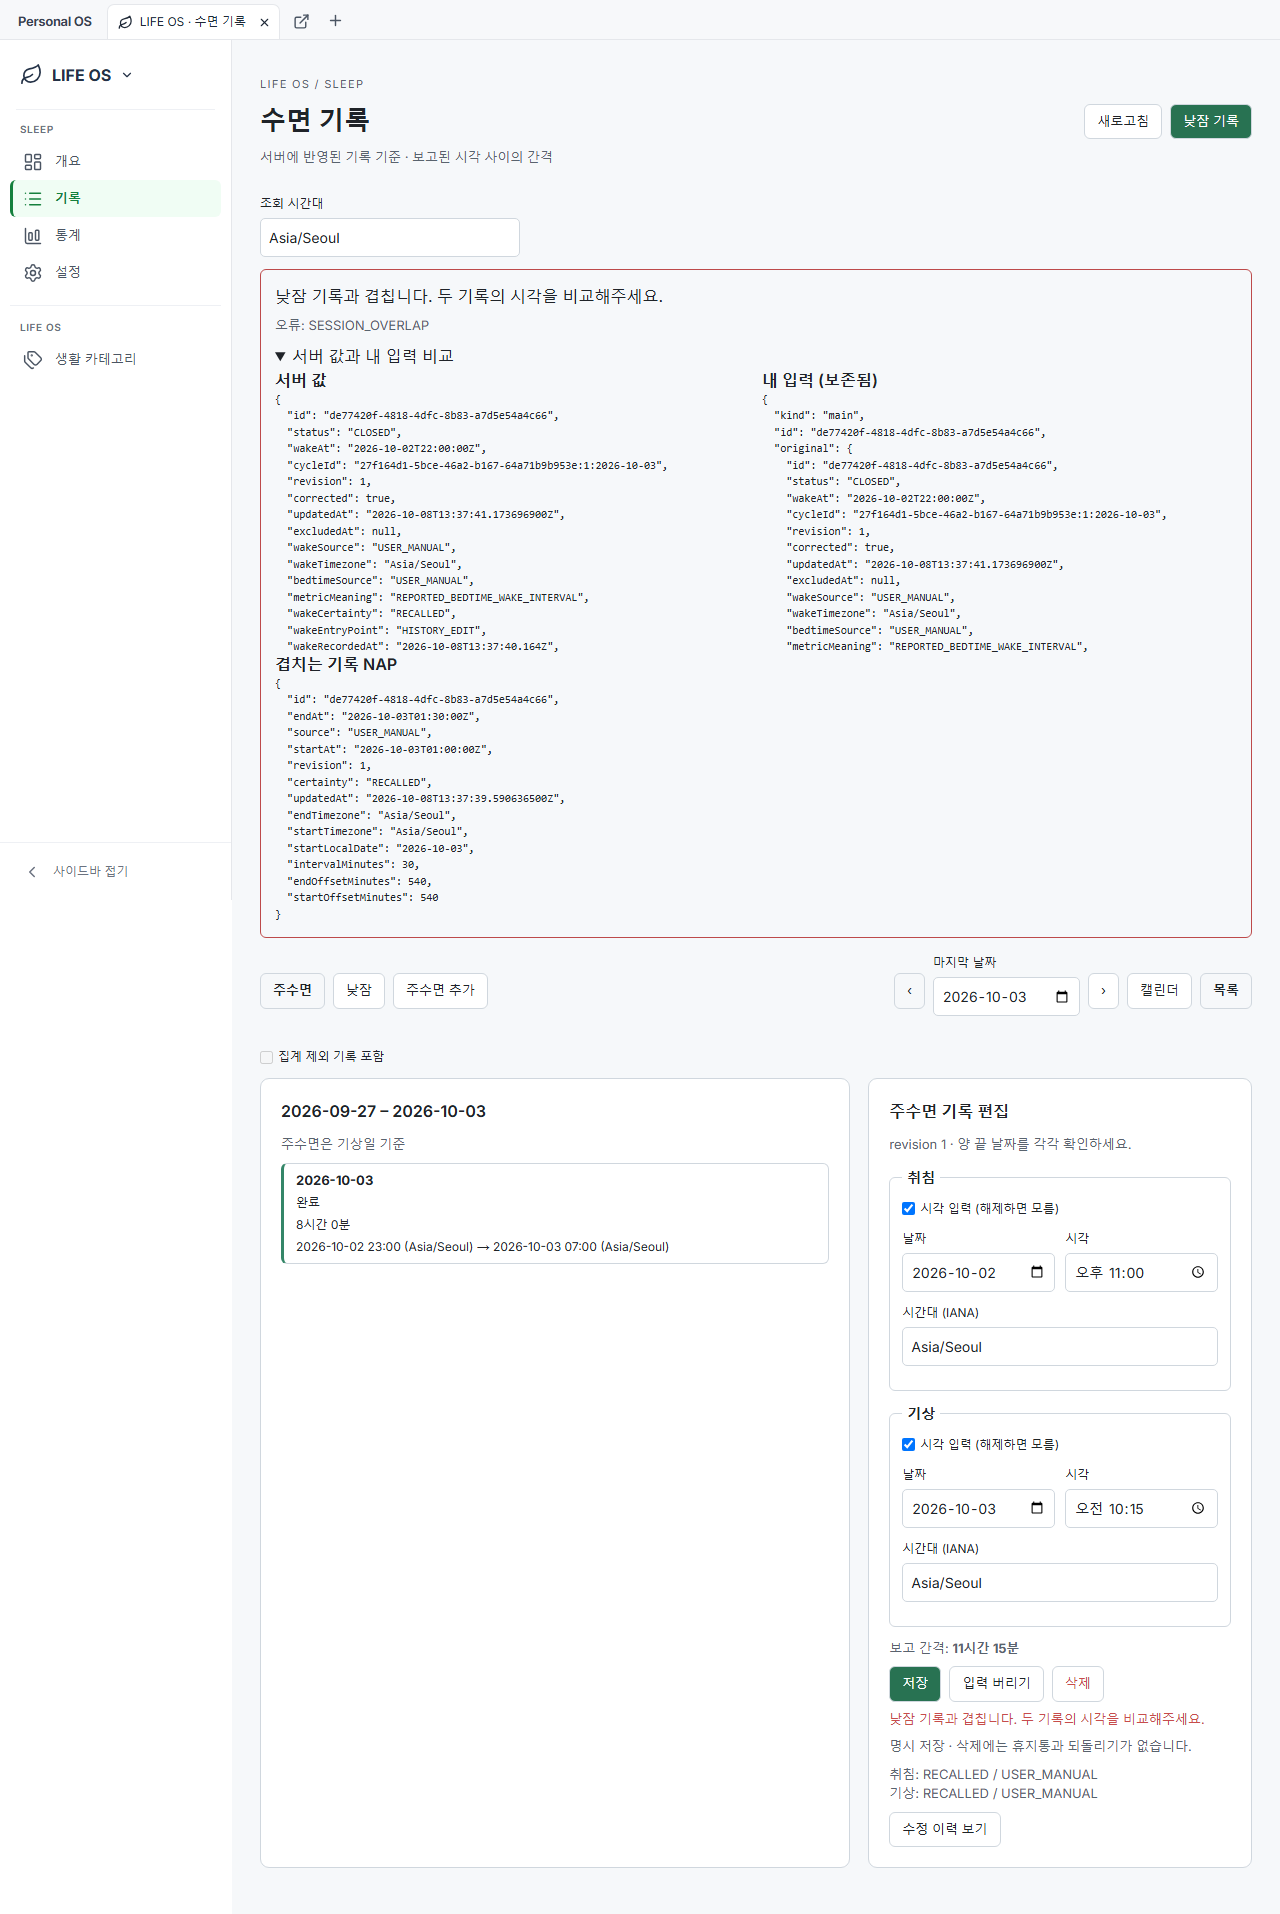
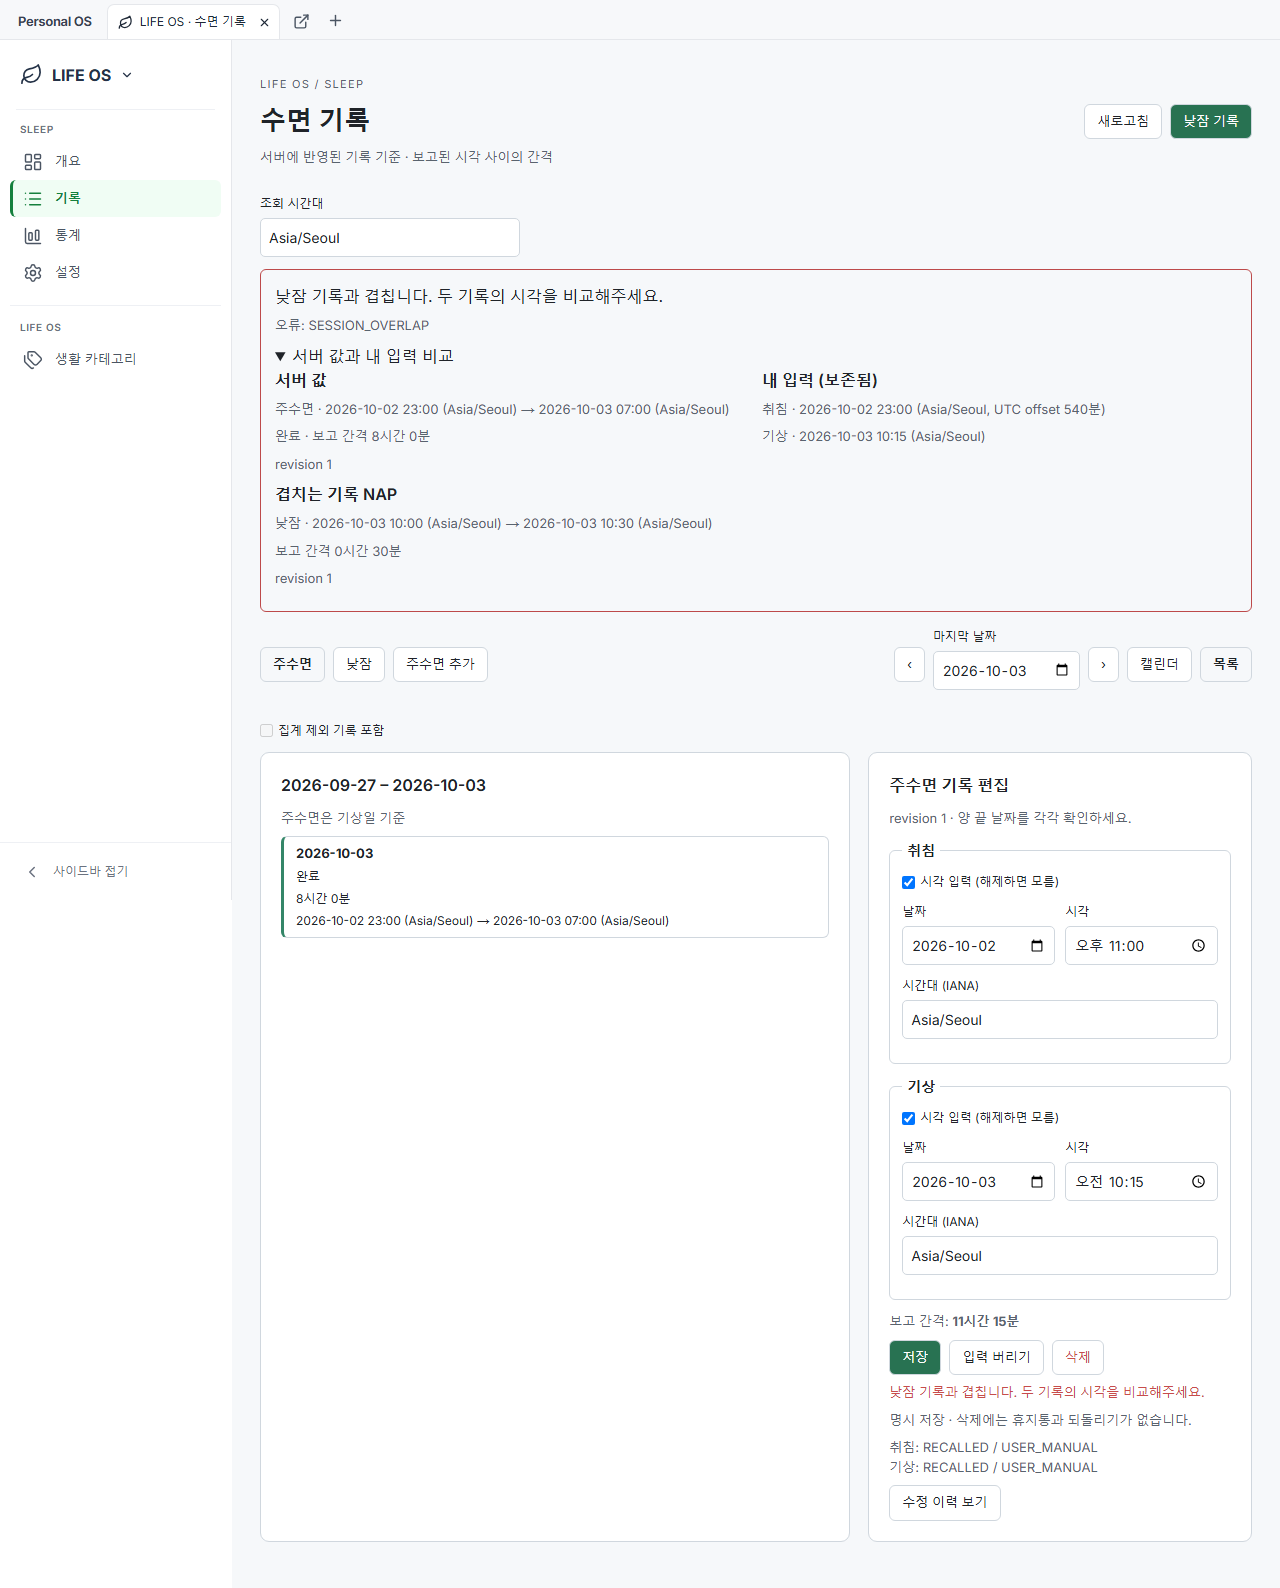
fix(sleep): show readable conflict facts and retained input

diff --git a/frontend/app/life/sleep/SleepWorkspace.tsx b/frontend/app/life/sleep/SleepWorkspace.tsx
@@ -35,6 +35,8 @@ function TimeInput({label,value,set,nap,disabled}:{label:string;value:Endpoint;s
  </fieldset>;
 }
 function RecordText({kind,record}:{kind:"main"|"nap";record:Session|Nap}){const n=record as Nap,s=record as Session;return <><strong>{kind==="nap"?n.startLocalDate:s.logicalWakeDate??s.expectedWakeDate}</strong><span>{kind==="nap"?"낮잠":s.excludedAt?"집계 제외":labels[s.status]}</span><span>{duration(record.intervalMinutes)}</span><span>{recordRange(kind,record)}</span></>;}
+function SnapshotFacts({value}:{value:unknown}){const r=value as Record<string,unknown>|null;if(!r)return <p>서버 상태 없음</p>;if(r.deleted)return <p>삭제된 기록</p>;return <div className="sleep-server-facts">{r.startAt||r.endAt?<><p>낮잠 · {recordRange("nap",r as Nap)}</p><p>보고 간격 {duration(Number(r.intervalMinutes))}</p></>:r.status?<><p>주수면 · {recordRange("main",r as Session)}</p><p>{labels[String(r.status)]} · 보고 간격 {duration(r.intervalMinutes as number|null)}</p></>:r.bedtime&&r.wake?<>{(["bedtime","wake"] as const).map(key=>{const reminder=r[key] as Settings["bedtime"];return <p key={key}>{key==="bedtime"?"취침":"기상"} 알림 {reminder.enabled?"켜짐":"꺼짐"} · {reminder.localTime} · 요일 {reminder.weekdays.join(", ")}</p>;})}</>:<p>기록 상태를 다시 조회해주세요.</p>}{r.revision!=null&&<p>revision {String(r.revision)}</p>}</div>;}
+function DraftFacts({draft,settings}:{draft:Draft|null;settings:Settings|null}){if(settings)return <SnapshotFacts value={settings}/>;if(!draft)return <p>편집 중인 입력 없음</p>;return <div>{([['시작',draft.start],['종료',draft.end]] as const).map(([label,e])=><p key={label}>{draft.kind==="main"?(label==="시작"?"취침":"기상"):label} · {e.known?`${e.date} ${e.time||"시각 미입력"} (${e.zone}${e.offset?", UTC offset "+e.offset+"분":""})`:"모름"}</p>)}</div>;}
 export default function SleepWorkspace(){
  const path=usePathname(),params=useSearchParams(),shell=useGlobalTabs();const page=pages.find(x=>x.path===path)??pages[0];
  const [zone,setZone]=useState("Asia/Seoul"),[date,setDate]=useState(()=>/^\d{4}-\d{2}-\d{2}$/.test(params.get("date")??"")&&Number.isFinite(Date.parse(params.get("date")!))&&new Date(params.get("date")!).toISOString().slice(0,10)===params.get("date")?params.get("date")!:localParts(new Date().toISOString(),"Asia/Seoul").date);
@@ -113,7 +115,7 @@ export default function SleepWorkspace(){
  <main className="sleep-workspace"><header className="sleep-header"><div><p className="sleep-eyebrow">LIFE OS / SLEEP</p><h1>수면 {page.label}</h1><p>서버에 반영된 기록 기준 · 보고된 시각 사이의 간격</p></div><div className="sleep-row"><button disabled={busy} onClick={()=>void refresh()}>새로고침</button>{path!=="/life/sleep/settings"&&<button className="sleep-primary" disabled={!today||busy} onClick={()=>{if(path.endsWith("records"))edit(draftOf("nap",null,date));else navigate("/life/sleep/records?kind=nap&view=list");}}>낮잠 기록</button>}</div></header>
  <label className="sleep-query-zone">조회 시간대<input value={zone} onChange={e=>setZone(e.target.value)} list="sleep-zones" disabled={busy||dirty}/></label><datalist id="sleep-zones"><option>Asia/Seoul</option><option>America/New_York</option><option>Europe/London</option><option>UTC</option></datalist>
  {!online&&<div role="status" className="sleep-message">오프라인입니다. 입력은 이 계정의 브라우저에 보관됩니다. 서버 저장은 연결 후 직접 재시도해주세요.</div>}
- {loading&&<p role="status">불러오는 중…</p>}{error&&<div role="alert" className="sleep-error">{error}{Boolean(detailError?.code)&&<p>오류: {String(detailError?.code)}</p>}{Boolean(detailError?.fieldErrors)&&<pre>{JSON.stringify(detailError?.fieldErrors,null,2)}</pre>}{Boolean(detailError?.serverSnapshot??detailError?.conflictingSnapshot)&&<details open><summary>서버 값과 내 입력 비교</summary><div className="sleep-compare"><section><h3>서버 값</h3><pre>{JSON.stringify(detailError?.serverSnapshot??detailError?.conflictingSnapshot,null,2)}</pre>{Boolean(detailError?.serverSnapshot&&detailError?.conflictingSnapshot)&&<><h3>겹치는 기록 {String(detailError?.conflictingResourceType??"")}</h3><pre>{JSON.stringify(detailError?.conflictingSnapshot,null,2)}</pre></>}</section><section><h3>내 입력 (보존됨)</h3><pre>{JSON.stringify(draft??settingDraft,null,2)}</pre></section></div></details>}{detailError?.code==="REVISION_CONFLICT"&&<button disabled={busy} onClick={()=>void reapply()}>내 입력 유지 · 최신 기록 가져오기</button>}{!dirty&&<button onClick={()=>void refresh()}>조회 다시 시도</button>}</div>}
+ {loading&&<p role="status">불러오는 중…</p>}{error&&<div role="alert" className="sleep-error">{error}{Boolean(detailError?.code)&&<p>오류: {String(detailError?.code)}</p>}{Boolean(detailError?.fieldErrors)&&<pre>{JSON.stringify(detailError?.fieldErrors,null,2)}</pre>}{Boolean(detailError?.serverSnapshot??detailError?.conflictingSnapshot)&&<details open><summary>서버 값과 내 입력 비교</summary><div className="sleep-compare"><section><h3>서버 값</h3><SnapshotFacts value={detailError?.serverSnapshot??detailError?.conflictingSnapshot}/>{Boolean(detailError?.serverSnapshot&&detailError?.conflictingSnapshot)&&<><h3>겹치는 기록 {String(detailError?.conflictingResourceType??"")}</h3><SnapshotFacts value={detailError?.conflictingSnapshot}/></>}</section><section><h3>내 입력 (보존됨)</h3><DraftFacts draft={draft} settings={settingDraft}/></section></div></details>}{detailError?.code==="REVISION_CONFLICT"&&<button disabled={busy} onClick={()=>void reapply()}>내 입력 유지 · 최신 기록 가져오기</button>}{!dirty&&<button onClick={()=>void refresh()}>조회 다시 시도</button>}</div>}
  {notice&&<p role="status" className="sleep-message">{notice}</p>}{pending&&<section className="sleep-panel"><h2>응답 확인이 필요한 저장 요청</h2><p>작업 식별자와 본문을 그대로 보관했습니다. 재시도해도 중복 생성하지 않습니다.</p><button disabled={busy||!online} onClick={()=>void send(pending)}>정확한 요청 재시도</button></section>}
  {undo&&<div role="status" className="sleep-message">주수면을 수정했습니다. <button disabled={busy} onClick={()=>void undoEdit()}>되돌리기 (8초)</button></div>}
  {today&&path==="/life/sleep"&&<><div className="sleep-grid"><section className="sleep-panel"><h2>{today.activeSession?"진행 중인 주수면":"최근 완료 주수면"}</h2>{(today.activeSession??today.lastClosed)?<><p>{labels[(today.activeSession??today.lastClosed)!.status]}{today.staleOpen?" · 오래된 진행 기록 보완 필요":""}</p><p>{recordRange("main",(today.activeSession??today.lastClosed)!)}</p><p>취침 {(today.activeSession??today.lastClosed)!.bedtimeCertainty??"미기록"} · 기상 {(today.activeSession??today.lastClosed)!.wakeCertainty??"미기록"}</p><p className="sleep-value">{duration((today.activeSession??today.lastClosed)!.intervalMinutes)}</p><button onClick={()=>navigate("/life/sleep/records?date="+((today.activeSession??today.lastClosed)!.logicalWakeDate??(today.activeSession??today.lastClosed)!.expectedWakeDate))}>기록 확인·보완</button></>:<p>아직 서버에 기록한 주수면이 없습니다.</p>}</section><section className="sleep-panel"><h2>보완할 기록</h2>{today.pendingActions.length?today.pendingActions.slice(-8).reverse().map(p=><button className="sleep-record" key={p.occurrenceId} onClick={()=>navigate("/life/sleep/records?date="+p.expectedWakeDate)}><strong>{p.expectedWakeDate}</strong><span>{p.kind==="BEDTIME_REQUIRED"?"취침":"기상"} · {p.status==="ACKNOWLEDGED_UNKNOWN"?"모름":"기록 필요"}</span></button>):<p>현재 보완 요구가 없습니다.</p>}<p>휴대폰에서 아직 전송하지 않은 기록은 웹에서 확인할 수 없습니다.</p></section></div>{metricPanel}{napPanel}</>}

diff --git a/docs/sleep-web-v1/QA_MATRIX.md b/docs/sleep-web-v1/QA_MATRIX.md
@@ -1,10 +1,10 @@
 # Sleep Web V1 검증 기록
 
-현재 소스에서 실제 수행한 검증만 기록한다. 이전 SLEEP-09/Android 수치는 신규 결과로 계산하지 않는다.
+본 작업에서 실제 수행한 검증만 기록한다. 초기 후보의 기존 회귀 검증과 후속 변경에 대한 최종 focused 검증을 구분한다. 이전 SLEEP-09/Android 수치는 신규 결과로 계산하지 않는다.
 
 | 검증 | 결과 및 근거 |
 |---|---|
-| 기존 Sleep PostgreSQL/recorder/time + 보안 profile | 58 executions 통과. 기존 테스트 자체 38개가 상속 실행을 포함해 58회 실행됨. 최초 전체 실행 로그와 XML 보존 |
+| 기존 Sleep PostgreSQL/recorder/time + 보안 profile | 초기 후보에서 58 executions 통과. 후속 변경은 최종 낮잠·Android 계약 focused 검증으로 확인했다. 기존 테스트 자체 38개가 상속 실행을 포함해 58회 실행됨. 최초 전체 실행 로그와 XML 보존 |
 | 낮잠·영속성·회귀 | 최종 13/13, skip 0. 실제 DEV PostgreSQL 소유 schema 사용. revision/replay/owner/delete redaction/OPEN/인접·상호 겹침/Undo/동시 main-nap 및 nap-nap/V76 기존 데이터 보존/같은 UUID 리소스 receipt 분리 및 기존 Android main serverSnapshot 계약 보존 |
 | 정상 운영 보안 체인 | 3/3. 무인증 읽기·쓰기 거절, 검증 JWT subject의 owner predicate, invalid bearer 거절; 실제 ProdSecurityConfig 경유 |
 | 프런트엔드 모델·탭 | 17/17. DST gap/fold, endpoint 원본 보존, null 간격, 24h 초과, owner 초안, URL context·기본 제목 보존 |
@@ -18,4 +18,4 @@
 
 운영 세션 조회는 기본 Playwright Chrome 인자가 프로세스를 종료시켰으나, 기존 POS 절차의 native Chrome `ignoreDefaultArgs`와 `--headless=new`로 해결했다. 토큰은 메모리에서만 사용했고 파일/로그/문서에 저장하지 않았다.
 
-Android checkout과 기존 CONFLICT 보존·snapshot ID 비교 경로를 확인했다. 마지막 main/nap snapshot 계약 보호 변경은 별도 실제 UI 시나리오 1/1에서 검증했고, 주수면 canonical·겹친 낮잠 분리 및 사용자 입력 보존을 확인했다. Android 소스·API envelope는 변경하지 않았다. Android nap UI/sync 및 Flip6 physical QA는 범위 밖이며 계속 보류한다.
+Android checkout과 기존 CONFLICT 보존·snapshot ID 비교 경로를 확인했다. 마지막 main/nap snapshot 계약 보호 변경은 별도 실제 UI 시나리오 2/2에서 검증했고, 주수면 canonical·겹친 낮잠 분리, 낮잠 revision 충돌의 읽기 좋은 시각 비교 및 사용자 입력 보존을 확인했다. Android 소스·API envelope는 변경하지 않았다. Android nap UI/sync 및 Flip6 physical QA는 범위 밖이며 계속 보류한다.
